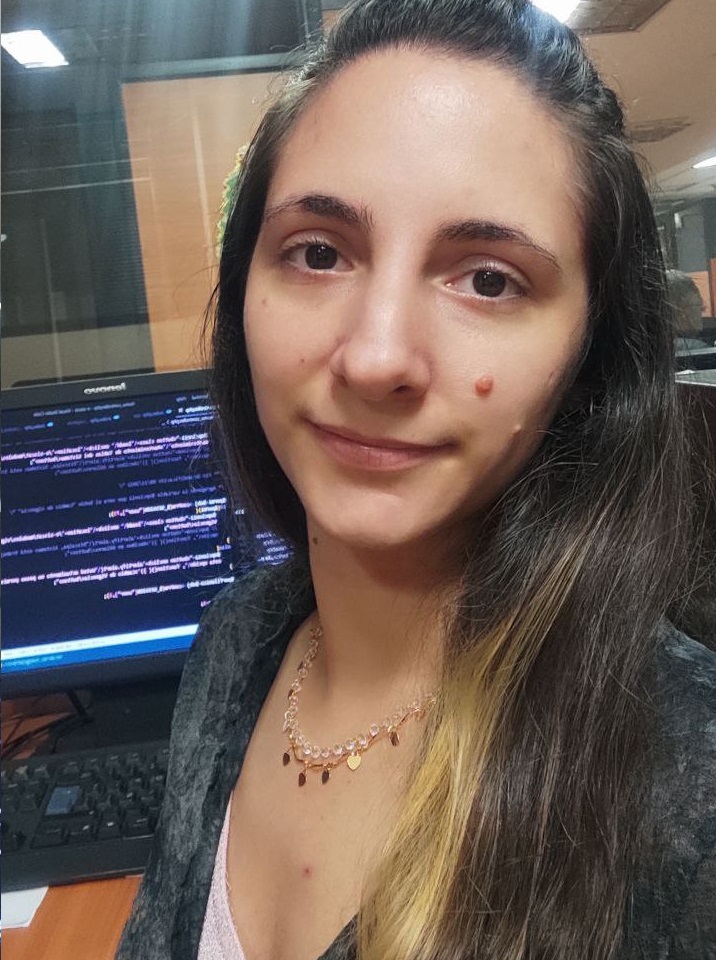
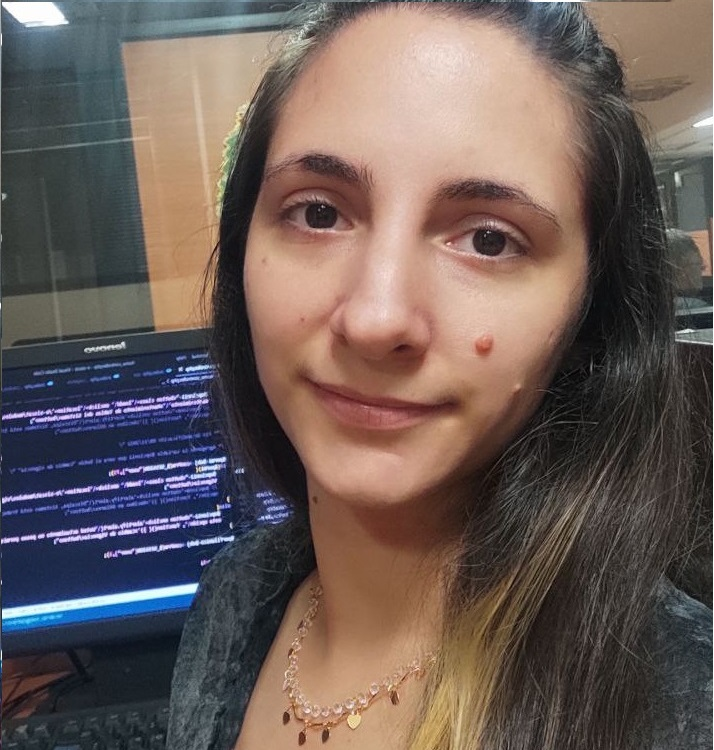
Cambios de diseño en la seccion sobre mi

diff --git a/css/style.css b/css/style.css
@@ -178,19 +178,15 @@ main {
 .photo {
     width: 320px;
     height: 320px;
-    padding: 25px;
+    padding: 15px;
 }
 
 .me-photo {
     width: 100%;
     height: 100%;
-    background-size: cover;
+    background-size: 9000px 3200px;
     border-radius: 50%;
     background-position: center;
-}
-
-.name {
-    margin: 8px;
 }
 
 .img-container {
@@ -199,6 +195,8 @@ main {
 
 .info-container {
     padding-top: 35px;
+    background-color: rgb(0 45 112 / 42%);
+    backdrop-filter: blur(25px);
 }
 
 .aboutme {
@@ -206,6 +204,9 @@ main {
     max-width: 70%;
     margin: 0 auto;
     padding-bottom: 8px;
+    text-align: start;
+    line-height: 40px;
+
 }
 
 .contact {

diff --git a/index.html b/index.html
@@ -63,9 +63,9 @@
             <div class="img-container">
                 <figure class="photo">
                     <img class="me-photo" src="./css/img/photo.jpg" alt="">
-                    <h2 class="subtitle">FullStack</h2>
-                    <p class="description name">Andreina Di Brigida</p>
                 </figure>
+                <h2 class="subtitle">FullStack</h2>
+                <p class="description name">Andreina Di Brigida</p>
             </div>
             <div class="info-container">
                 <h2 class="subtitle">Sobre mi 👩💻: </h2>
